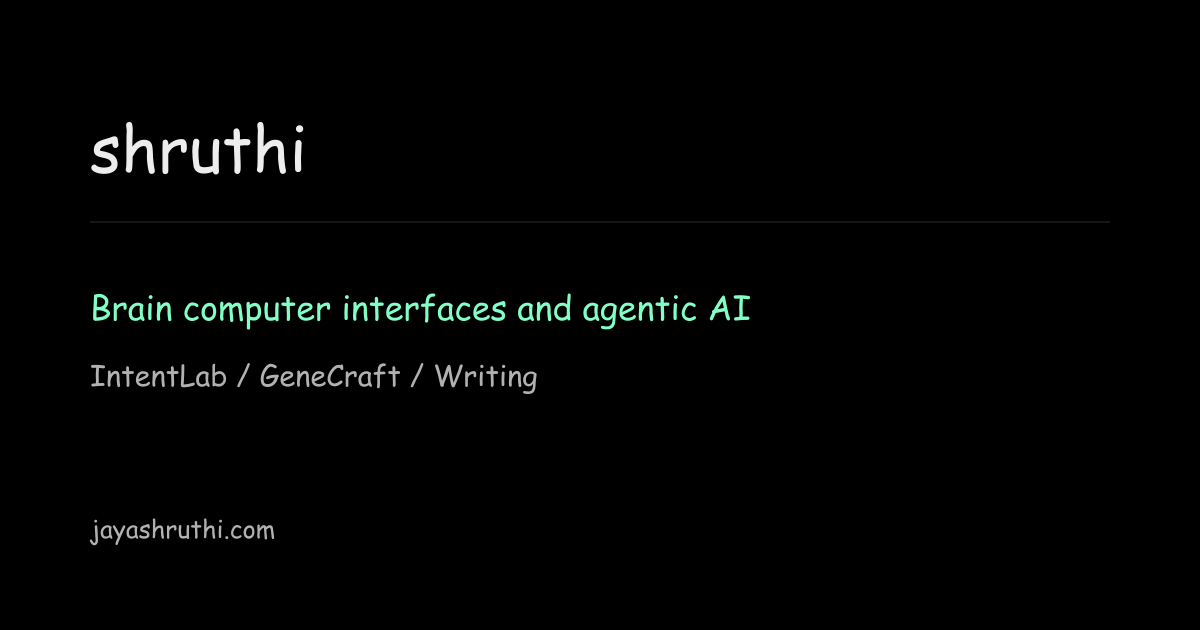
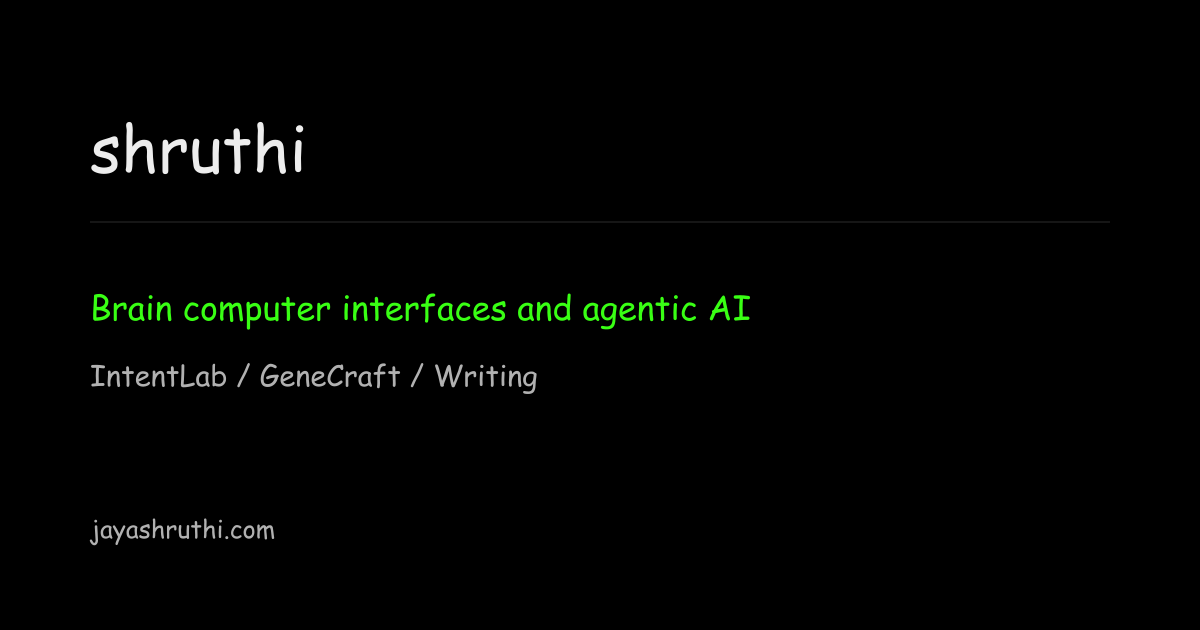
Add verified Thronglets quote and vivid neon green accents

Changed region(s): [[0.0617, 0.4524, 0.6475, 0.5127]]

diff --git a/components/ThrongletField.jsx b/components/ThrongletField.jsx
@@ -1,6 +1,7 @@
 'use client';
 
 import { useEffect, useRef, useState } from 'react';
+import { thronglets } from '@/content/site';
 
 const WIDTH = 360;
 const HEIGHT = 256;
@@ -236,6 +237,10 @@ export default function ThrongletField() {
     <canvas ref={canvas} width={WIDTH} height={HEIGHT} role="img" aria-label="Six golden pixel creatures in a misty Pacific Northwest forest clearing with dark fir trees, mountain ridges and wet ground" aria-describedby="field-instructions" onPointerDown={feedAtPointer} />
     <div className="field-controls"><button type="button" className="button button-small" onClick={() => simulation.current?.feed()}>Feed <span aria-hidden="true">+</span></button><button type="button" className="field-pause" onClick={toggleAnimation}>{paused ? 'Resume animation' : 'Pause animation'}</button></div>
     <p id="field-instructions" className="field-instructions">Click the field or use Feed to drop an apple</p>
+    <blockquote className="field-quote">
+      <p>“{thronglets.quote}”</p>
+      <footer>{thronglets.speaker} · <cite><a href={thronglets.sourceUrl} target="_blank" rel="noopener noreferrer">{thronglets.source}</a></cite></footer>
+    </blockquote>
     <span className="sr-only" role="status">{message}</span>
   </figure>;
 }

diff --git a/app/styles/globals.css b/app/styles/globals.css
@@ -4,7 +4,7 @@
   --panel: #0b0b0b;
   --ink: #ededed;
   --muted: #b1b1b1;
-  --accent: #81ffc6;
+  --accent: #39ff14;
   --accent-panel: #101713;
   --lilac: #b5a3ff;
   --peach: #151515;
@@ -421,6 +421,11 @@ h3 { font-size: 1.13rem; }
 .field-title span:last-child { text-transform: none; letter-spacing: 0; color: var(--muted); font-size: .72rem; }
 .field-controls { border-top: 1px solid #303735; padding: 10px 11px 3px; }
 .field-instructions { padding: 8px 12px 12px; }
+.field-quote { margin: 0; padding: 12px 14px 14px; border-top: 1px solid var(--line); font-size: .8rem; line-height: 1.6; color: var(--accent); }
+.field-quote footer { margin-top: 7px; color: var(--muted); font-size: .68rem; }
+.field-quote cite { font-style: normal; }
+.field-quote a { text-decoration-color: var(--line); }
+.field-quote a:hover { color: var(--accent); }
 .field-pause { min-height: 42px; padding: 8px 11px; font-size: .75rem; }
 .page-section { margin-top: 56px; }
 .section-heading { border-top: 1px solid var(--line); padding-top: 25px; margin-bottom: 22px; }

diff --git a/content/site.js b/content/site.js
@@ -30,6 +30,15 @@ export const home = {
   contactText: 'Enquiries about projects, research and AI or ML opportunities',
 };
 
+export const thronglets = {
+  // Plaything English subtitles, 00:11:39.400 to 00:11:44.400
+  // Also quoted at https://recenserie.com/black-mirror-7x04-recensione-netflix-thronglets.html
+  quote: 'You’re looking at the first lifeforms in history whose biology is entirely digital',
+  speaker: 'Colin Ritman',
+  source: 'Black Mirror, Plaything',
+  sourceUrl: 'https://www.netflix.com/tudum/articles/black-mirror-plaything-ending-explained',
+};
+
 // Headings, navigation and short labels used across the site.
 export const ui = {
   navigation: [{ href: '/', label: 'Home' }, { href: '/projects', label: 'Projects' }, { href: '/blog', label: 'Writing' }, { href: '/about', label: 'About' }, { href: '/contact', label: 'Contact' }],

diff --git a/lib/seo.js b/lib/seo.js
@@ -8,7 +8,7 @@ const projectId = key => `${search.url}${search.pages[key].path}#software`;
 export function pageMetadata(key) {
   const page = search.pages[key];
   const image = {
-    url: page.image || '/social-card.png?v=minimal-20261110',
+    url: page.image || '/social-card.png?v=neon-20261110',
     width: page.imageWidth || 1200,
     height: page.imageHeight || 630,
     alt: page.imageAlt || 'Shruthi, projects in BCI, neuroscience and agentic AI',

diff --git a/EDITING.md b/EDITING.md
@@ -15,6 +15,7 @@ The quickest places to start are `home.newsTitle` and `home.newsText` (the homep
 | Your identity metadata, email and social links | `profile` |
 | The homepage announcement and its button wording | `home.newsTitle`, `home.newsText`, `home.newsButton` |
 | Other homepage headings and sentences | `home` |
+| The quote beneath the Thronglets field and its attribution | `thronglets` |
 | Menu labels, buttons, section headings and page taglines | `ui` |
 | GeneCraft’s page, screenshot caption and download link | `genecraft` |
 | IntentLab’s explanation, motivation and results | `intentlab` |
